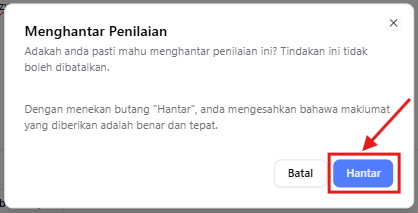
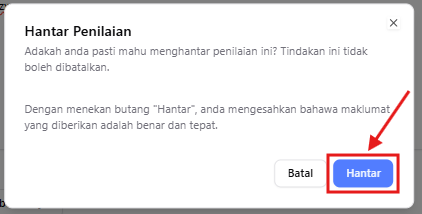
Hantar

diff --git a/docs/kakitangan/latihan/penilaian-latihan.md b/docs/kakitangan/latihan/penilaian-latihan.md
@@ -45,7 +45,7 @@ Setelah mengisi semua 4 bahagian:
 
 ::: tip Langkah 4
 1. Popup akan muncul untuk pengesahan akhir:
-**"Hantar"**
+**"Hantar Penilaian"**
 ![Sahkan](/image/kakitangan/Sahkan.png)
 
 Pilih:
